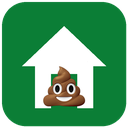
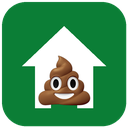
Bigger doorway poo; store kit moves to v2.1.0 package

Changed region(s): [[0.2812, 0.4062, 0.7188, 0.8438]]

diff --git a/store/STORE-LISTING.md b/store/STORE-LISTING.md
@@ -7,7 +7,7 @@ Everything below is copy-paste ready for the Developer Dashboard
 
 ## Package
 
-Upload: `re-poo-v2.0.1.zip` (in this folder).
+Upload: `re-poo-v2.1.0.zip` (in this folder).
 
 ---
 
@@ -100,7 +100,7 @@ data is collected, but it removes reviewer friction.
 1. Go to https://chrome.google.com/webstore/devconsole and sign in with the
    Google account you want to own the extension.
 2. Pay the one-time US$5 developer registration fee.
-3. "New item" → upload `re-poo-v2.0.1.zip`.
+3. "New item" → upload `re-poo-v2.1.0.zip`.
 4. Fill the Store Listing tab (copy from above), upload icon/screenshots.
    The 128px icon inside the package is used automatically.
 5. Fill the Privacy tab (copy from above).
